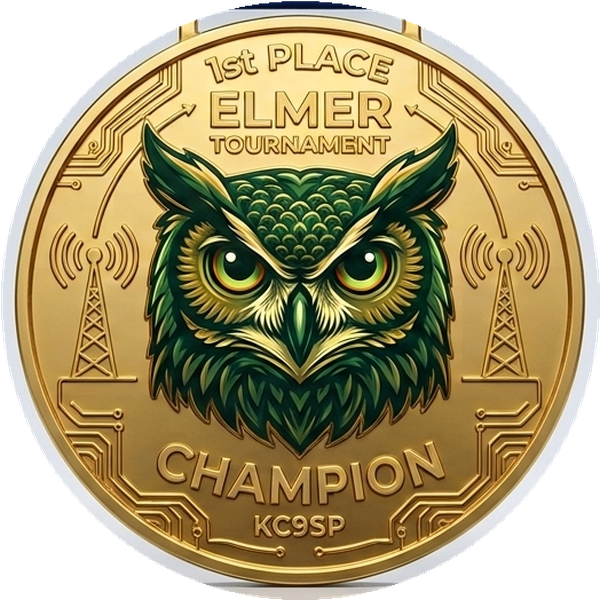
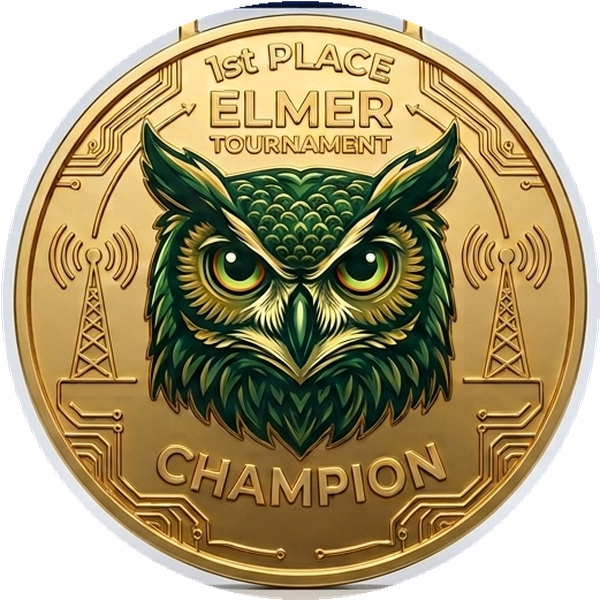
Gold and silver medals without the callsign
Cut from the re-made renders. The bronze is still the first one, with KC9SP
struck into it, until a clean bronze arrives; the README says so. A bronze
coloured from the gold with Pillow was tried and looks right, but it keeps
the gold's engraving - "1st PLACE" on a third-place certificate - so it is
not used.

diff --git a/README.md b/README.md
@@ -1505,13 +1505,17 @@ question pools is not an examination, and the foot of every certificate says
 so in as many words, because a sheet with *Technician* in large letters will be
 read that way by somebody unless the paper itself says otherwise.
 
-The medals are KC9SP's artwork, cut from `artwork/*Medal.jpg` into
-`elmer/static/medals/`, set on a drawn ribbon. Where the art is missing a drawn
-medal stands in, so the certificate never waits on a file. **One thing to know
-about the current art: the callsign KC9SP is struck into the face of each
-medal.** For a net KC9SP runs that reads as the issuer's mark; for any other
-club it is somebody else's callsign on the winner's wall, and the art should be
-regenerated without it before that club prints one.
+The medals are KC9SP's artwork, cut from the renders in `artwork/` into
+`elmer/static/medals/` and set on a drawn ribbon; the art's own ribbon is
+discarded, which is why the renders need not agree about its colour. Where the
+art is missing a drawn medal stands in, so the certificate never waits on a
+file. **The bronze is still the first render, with the callsign KC9SP struck
+into its face** — gold and silver were re-made without it. On a net KC9SP runs
+that is the issuer's mark; on any other club's wall it is somebody else's
+callsign, and the bronze should be replaced before that club prints a third
+place. A bronze can be *coloured* from the gold with Pillow — the metal shifts
+to copper and the owl stays green — but it keeps the gold's engraving, and
+"1st PLACE" on a third-place certificate is worse than a drawn medal.
 
 ### Practice opponents
 
